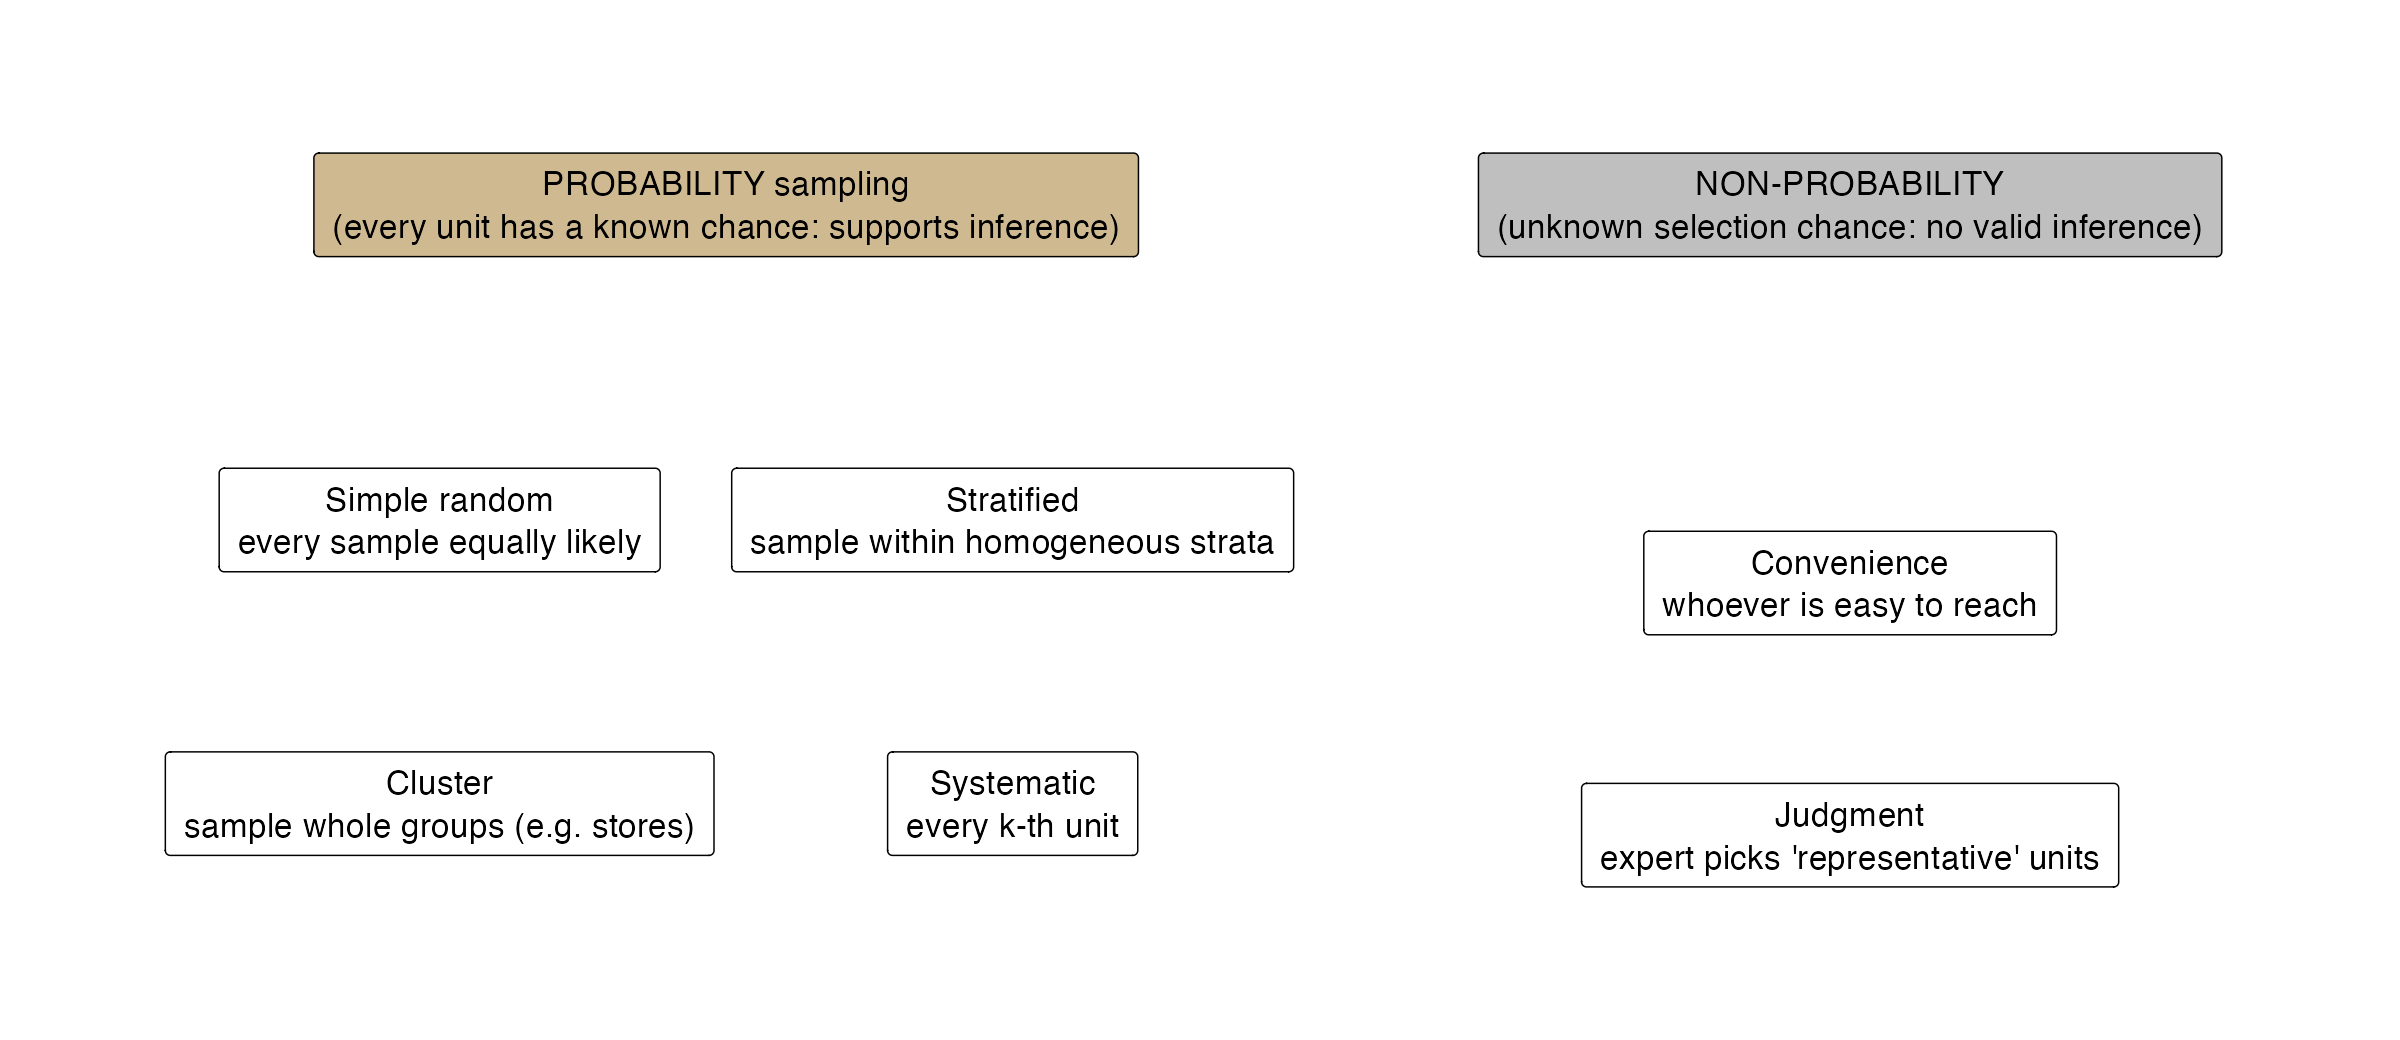
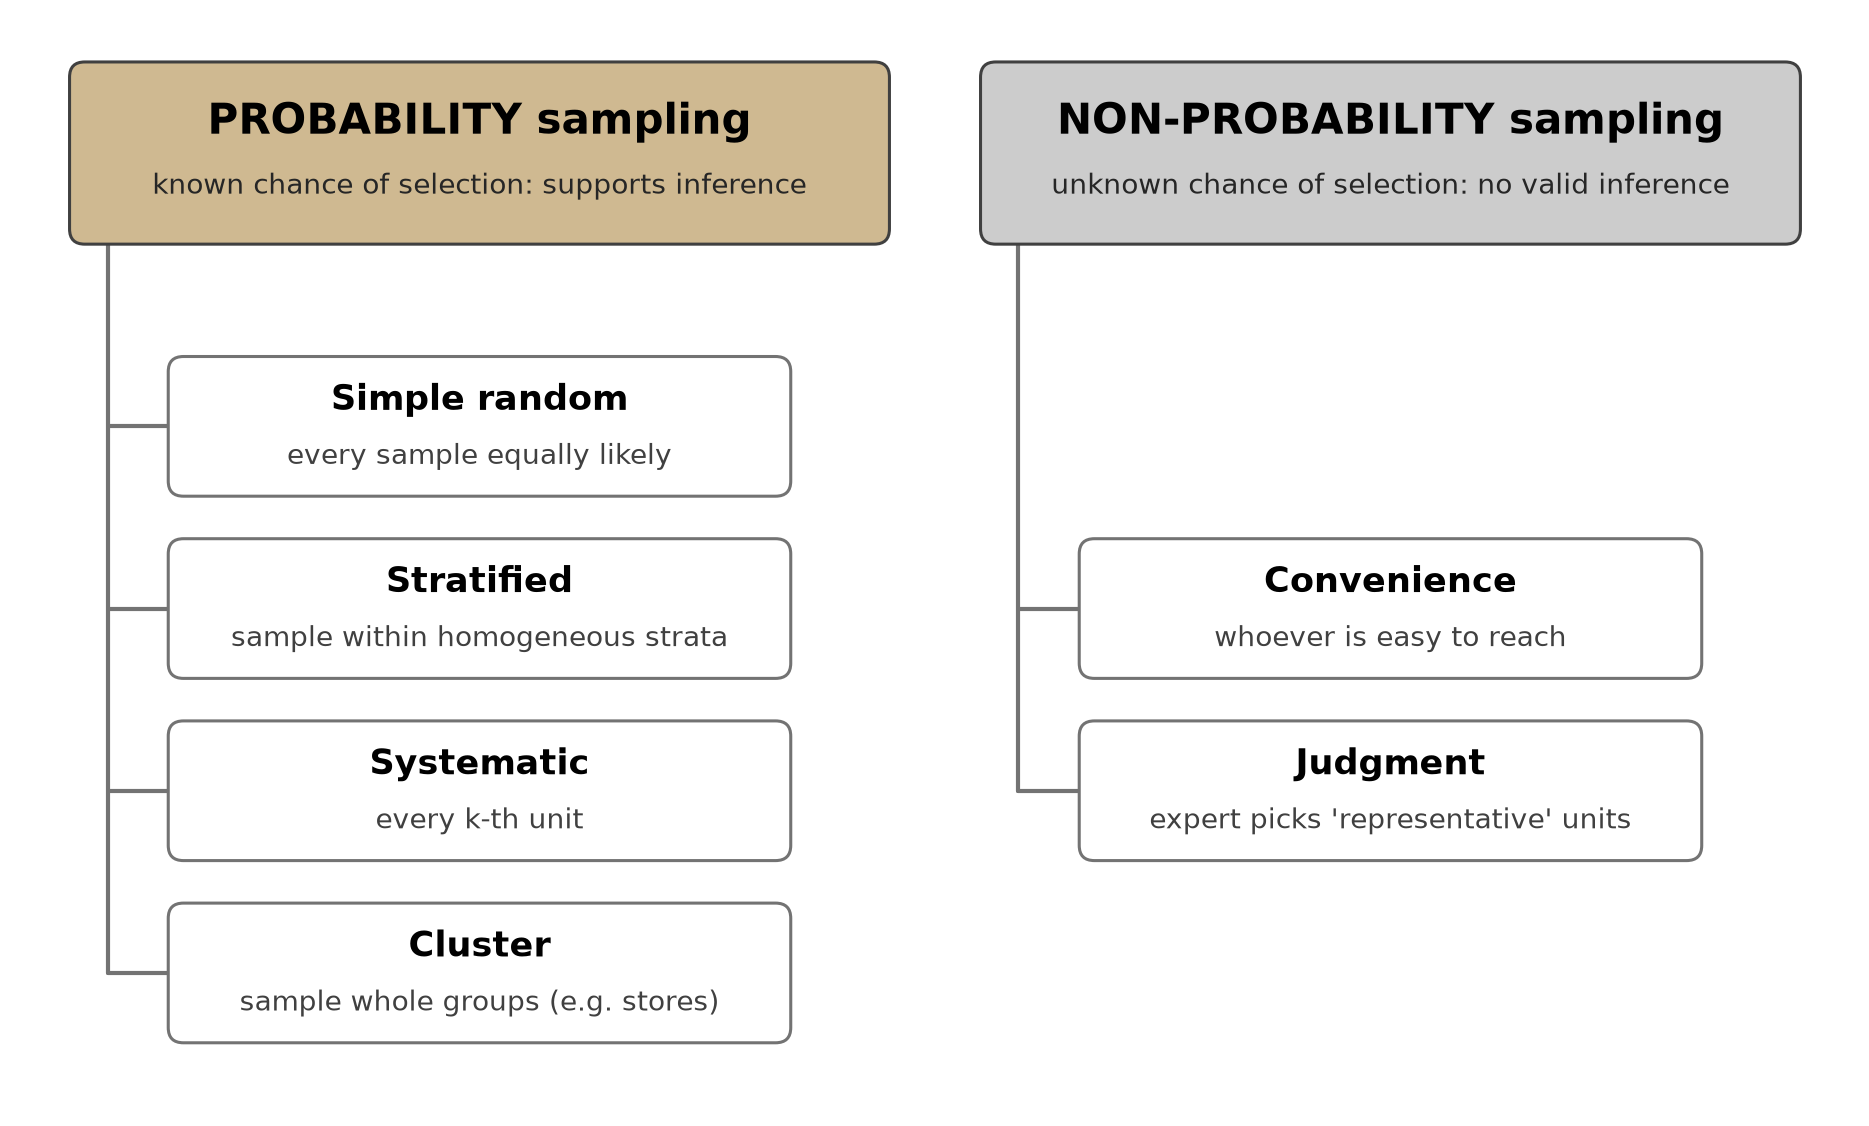
T07: redesign sampling-methods diagram + fix CLT slide reveal order
- Slide 10 (How the Sample Is Drawn): rebuild sampling_methods.png as a
  connector tree (two color-coded family headers, vertical spine + elbow
  connectors to each method box, aligned boxes, non-probability pair
  vertically centered) instead of disconnected floating labels. Source of
  truth updated in _adm_stuff/_redesign/scripts/make_topic07_assets.R;
  PNG regenerated to match (matplotlib fallback, local R/ggplot2 broken).
- Slide 26 (Using the CLT on Vungle): wrap the "Read it" interpretation in
  a fragment so it now reveals AFTER the two formulas (SE and the ~95%
  statement), not before them.
- Slide 37 (margin of error): verified against SBE 14e ch 8 that the book
  denotes the margin of error as capital E (no ME/MoE); deck already correct,
  no change.

diff --git a/docs/lecture_slides/07_chapter_interval_estimation/07_chapter_interval_estimation.html b/docs/lecture_slides/07_chapter_interval_estimation/07_chapter_interval_estimation.html
@@ -523,7 +523,9 @@ E(\bar{x}) = \mu
 P\big(\,|\bar{x}_B - \mu| \le 2\,\sigma_{\bar{x}}\,\big) \approx 0.95, \qquad 2\,\sigma_{\bar{x}} \approx \$0.13
 \]</span></p>
 </div>
+<div class="fragment">
 <p><strong>Read it:</strong> a single 30-day mean lands within about <strong>$0.13</strong> of B’s true eRPM roughly <strong>95%</strong> of the time (within $0.06 about 68%). We still cannot say <em>where</em> the truth sits, only how tightly our estimate clusters around it. Flipping that around, from the estimate back to the truth, is the <strong>confidence interval</strong>, next lecture. In Excel: <code>=0.344/SQRT(30)</code>.</p>
+</div>
 </div>
 </section>
 <section id="a-question-that-often-comes-up-2" class="slide level2 center">